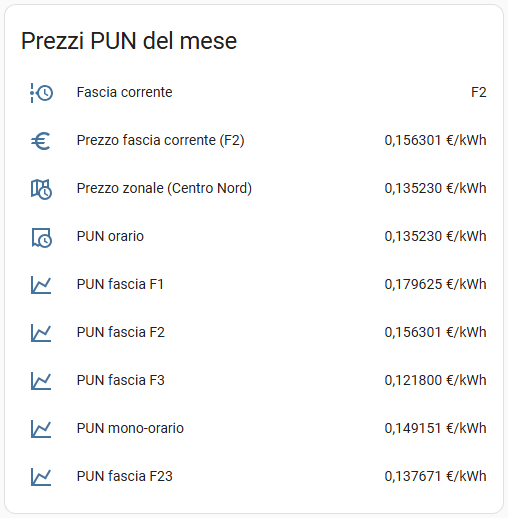
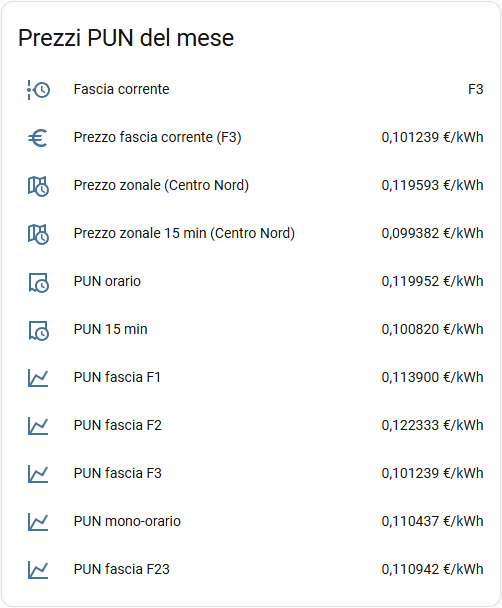
Aggiornamento README con aggiunta sensori a 15 minuti

diff --git a/README.md b/README.md
@@ -27,7 +27,7 @@ La prima casella a discesa permette di selezionare la _zona geografica_ di rifer
 
 Tramite lo slider invece è possibile selezionare un'_ora del giorno_ in cui scaricare i prezzi aggiornati dell'energia (default: 1); il minuto di esecuzione, invece, è determinato automaticamente per evitare di gravare eccessivamente sulle API del sito (e mantenuto fisso, finché l'ora non viene modificata). Se per qualche ragione il sito non fosse raggiungibile, verranno effettuati altri tentativi dopo 10, 60, 120 e 180 minuti.
 
-Nel caso si fosse interessati ai prezzi zonali, selezionare un'orario uguale o superiore a 15, così da essere sicuri che il GME abbia pubblicato i dati anche del giorno successivo (accessibili tramite gli [attributi dello stesso sensore](#prezzo-zonale)).
+Nel caso si fosse interessati ai prezzi zonali, selezionare un'**orario uguale o superiore a 15**, così da essere sicuri che il GME abbia pubblicato i dati anche del **giorno successivo** (accessibili tramite gli [attributi dello stesso sensore](#prezzo-zonale)).
 
 Se la casella di controllo _Usa solo dati reali ad inizio mese_ è **attivata**, all'inizio del mese quando non ci sono i prezzi per tutte le fasce orarie questi vengono disabilitati (non viene mostrato quindi un prezzo in €/kWh finché i dati non sono in numero sufficiente); nel caso invece la casella fosse **disattivata** (default) nel conteggio vengono inclusi gli ultimi giorni del mese precedente in modo da avere sempre un valore in €/kWh.
 
@@ -41,7 +41,7 @@ Se la casella di controllo _Usa solo dati reali ad inizio mese_ è **attivata**,
 
 L'integrazione fornisce il nome della fascia corrente relativa all'orario di Home Assistant (tra F1 / F2 / F3), i prezzi delle tre fasce F1 / F2 / F3 più la fascia mono-oraria, la [fascia F23](#fascia-f23-)\* e il prezzo della fascia corrente. Questi sono i dati intesi come mensili, da paragonare a quelli in bolletta una volta aggiunti costi fissi e tasse (vedere [_prezzo al dettaglio_](#prezzo-al-dettaglio)).
 
-Poi ci sono i due sensori con i prezzi orari (con il simbolo dell'orologio nell'icona), ad esempio utilizzabili per calcoli con impianti fotovoltaici: [PUN orario](#pun-orario) e [prezzo zonale](#prezzo-zonale).
+Poi ci sono i sensori con i prezzi orari (con il simbolo dell'orologio nell'icona), ad esempio utilizzabili per calcoli con impianti fotovoltaici: [PUN orario](#pun-orario-e-pun-15-minuti) e [prezzo zonale](#prezzo-zonale) che dalla versione 4 (ottobre 2025) sono disponibili anche nelle varianti a 15 minuti.
 
 ### Prezzo al dettaglio
 
@@ -88,13 +88,20 @@ Prezzo zonale di oggi e domani
 {%- set prezzo_prossimo = state_attr('sensor.pun_prezzo_zonale', orario_prossimo | string) -%}
 Prezzo zonale prossimo = {{ "%.6f" % prezzo_prossimo }} €/kWh
 ({{ orario_prossimo }})
+
+{# Esempio di recupero del prossimo prezzo zonale da 15 minuti #}
+{%- set orario_prossimo_15min = (utcnow() + timedelta(minutes=15)).astimezone(now().tzinfo) -%}
+{%- set orario_prossimo_15min = orario_prossimo_15min.replace(minute=(orario_prossimo_15min.minute // 15) * 15, second=0, microsecond=0) -%}
+{%- set prezzo_prossimo_15min = state_attr('sensor.pun_prezzo_zonale_15min', orario_prossimo_15min | string) -%}
+Prezzo zonale prossimo da 15 minuti = {{ "%.6f" % prezzo_prossimo_15min }} €/kWh
+({{ orario_prossimo_15min }})
 ```
 
-I dati sono visibili anche in _Home Assistant > Strumenti per sviluppatori > Stati_ filtrando `sensor.pun_prezzo_zonale` come entità e attivando la casella di controllo _Attributi_.
+I dati sono visibili anche in _Home Assistant > Strumenti per sviluppatori > Stati_ filtrando `sensor.pun_prezzo_zonale` come entità e attivando la casella di controllo _Attributi_. Lo stesso vale per i prezzi a 15 minuti, filtrando `sensor.pun_prezzo_zonale_15min`.
 
-### PUN orario
+### PUN orario e PUN 15 minuti
 
-In maniera simile al prezzo zonale, anche il valore del PUN orario (nome sensore: `sensor.pun_orario`) ha gli attributi con i prezzi di oggi e domani, se disponibili.
+In maniera simile al prezzo zonale, anche i valori del PUN orario (nome sensore: `sensor.pun_orario`) e PUN 15 minuti (nome sensore: `pun_15min`) hanno gli attributi con i prezzi di oggi e domani, se disponibili.
 
 ### In caso di problemi
 
